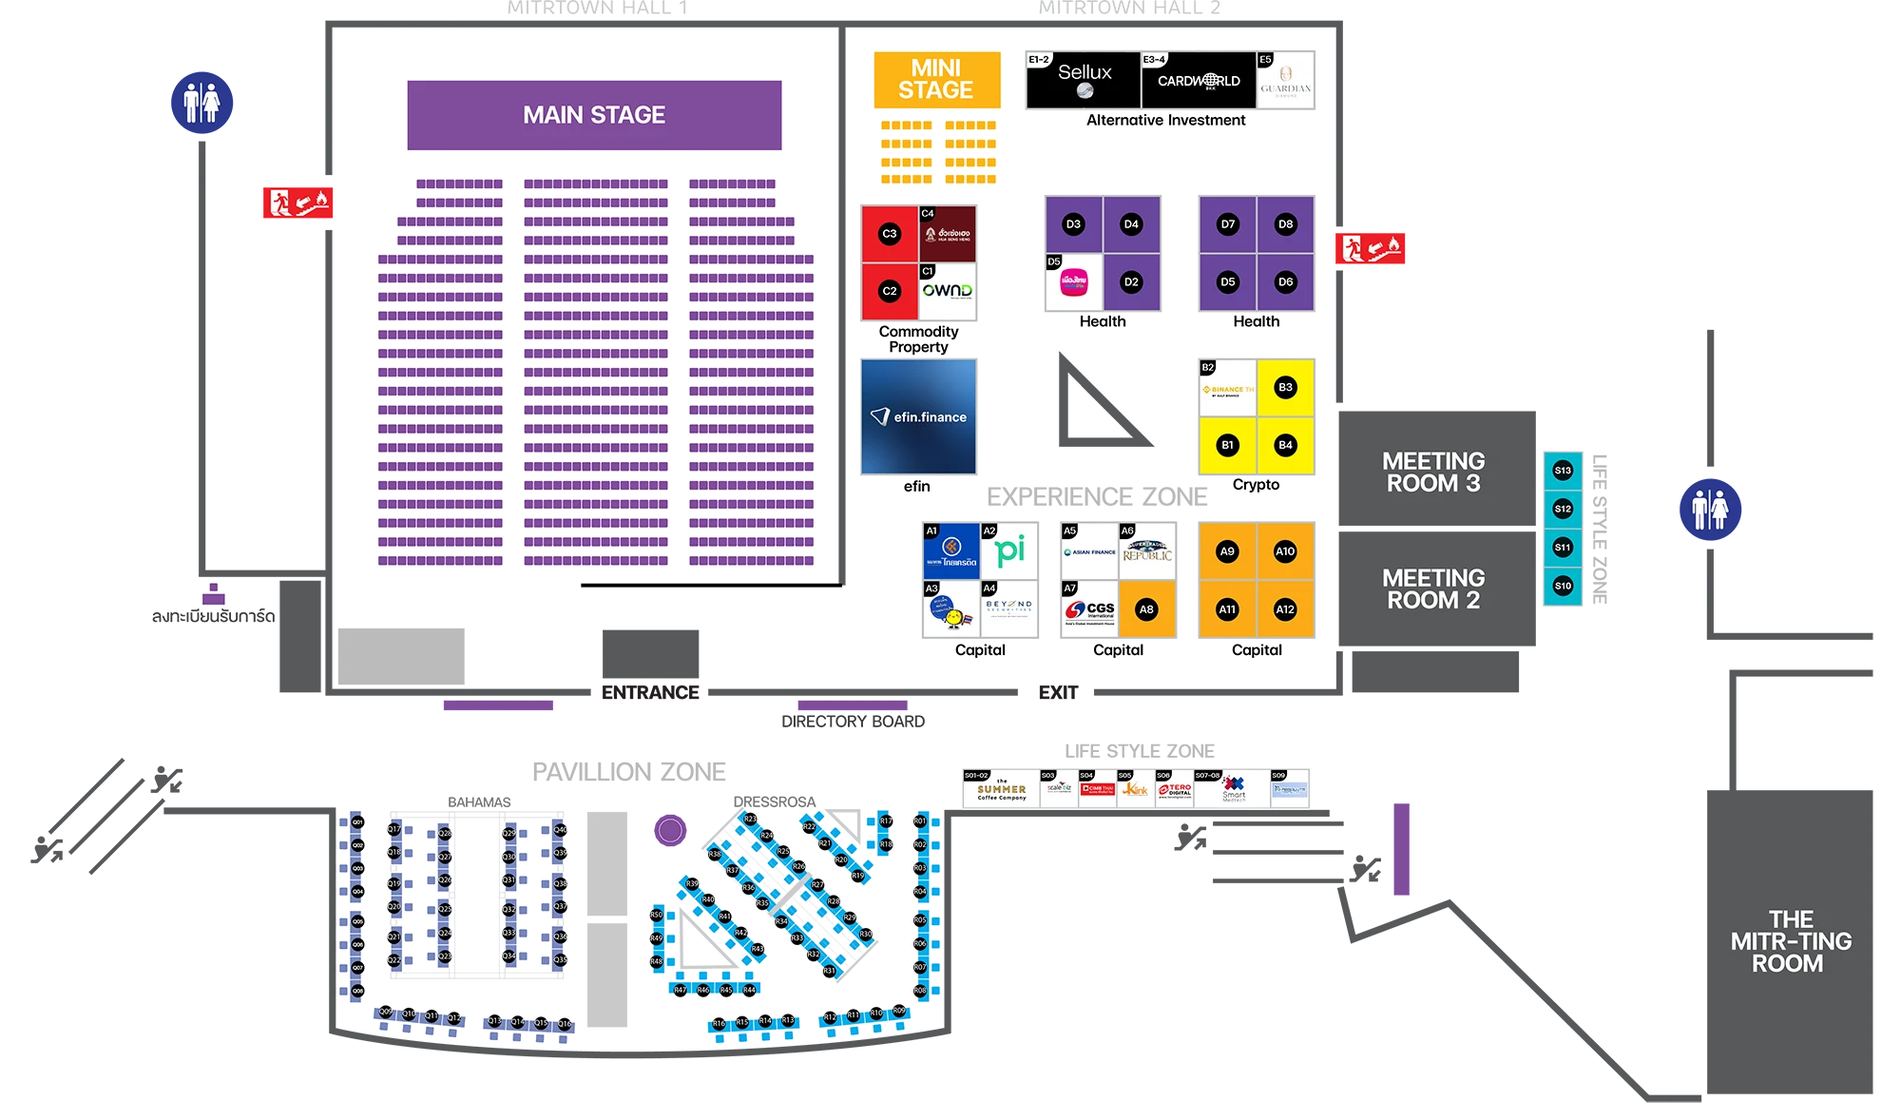
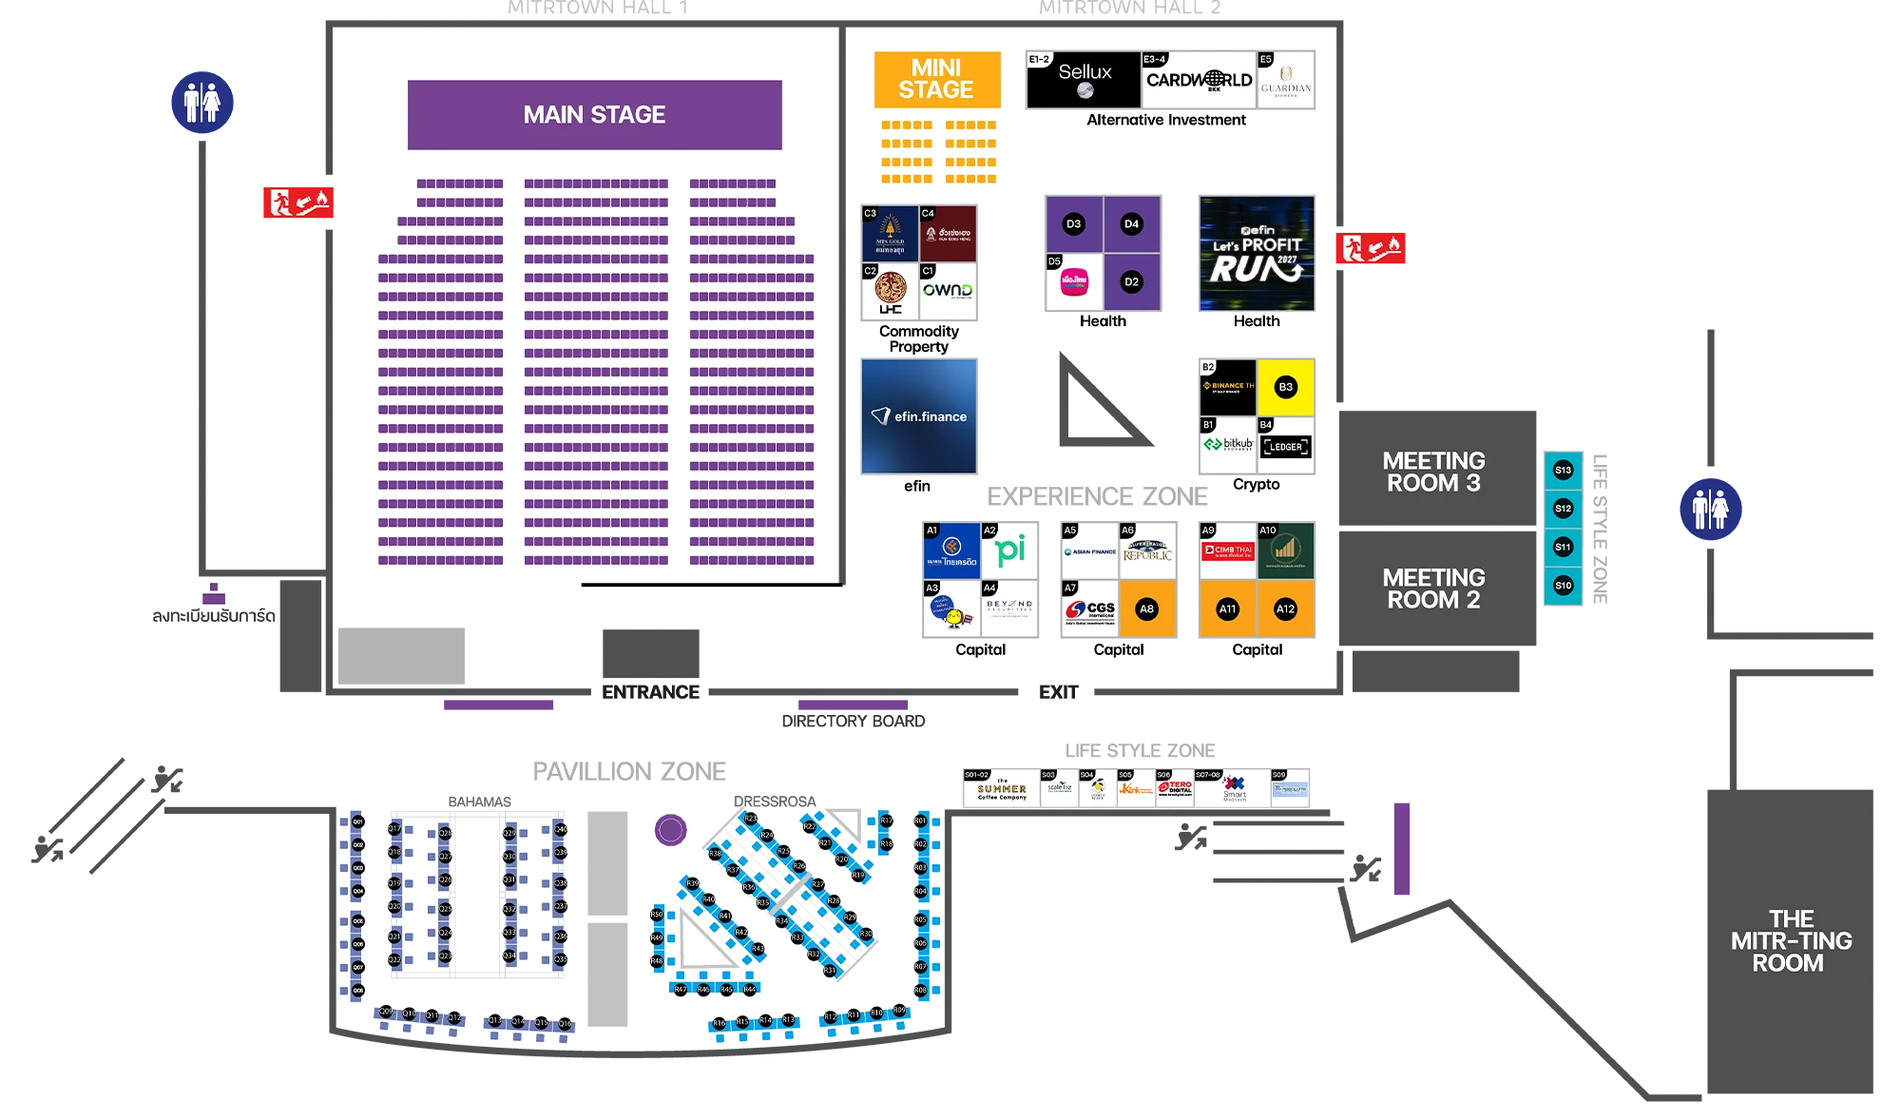
Floor plan booths from sheet, new speakers, updated booth plan
- Booth list synced with the sheet (A3, A9 CIMB, A10, B1, B4, C2, C3,
  S04 Honey Nuka; S10 now empty); all zones start collapsed; no border
  under the last zone
- New booth plan image (2000x1178), floor-plan-02.webp?v=2
- Agenda: ดร.ยศชนัน วงศ์สวัสดิ์ replaces TBD; speaker directory adds
  ดร.ยศชนัน, คุณวัชรวิชญ์, คุณปรินทร์, คุณเผดิมภพ (role placeholder)
- speaker-directory.js?v=45

diff --git a/index.html b/index.html
@@ -69,7 +69,7 @@
     <link rel="stylesheet" href="fonts/fonts.css">
     <link rel="stylesheet" href="vendor/swiper/swiper-bundle.min.css">
     <link rel="stylesheet" href="css/main.css?v=61">
-    <link rel="stylesheet" href="css/style.css?v=1173">
+    <link rel="stylesheet" href="css/style.css?v=1174">
 </head>
 
 <body class="is-loading">
@@ -562,9 +562,11 @@
                                             <td>
                                                 <p class="agenda__session-title">NEW WORLD, NEW PLAYBOOK</p>
                                                 <p class="agenda__session-summary">โลกใหม่ กติกาใหม่ โอกาสใหม่</p>
-                                                <p class="agenda__session-speaker">To Be Determined</p>
+                                                <p class="agenda__session-speaker">ดร.ยศชนัน วงศ์สวัสดิ์</p>
                                             </td>
-                                            <td class="agenda__speakers"><span class="agenda__speaker-frame" aria-label="พื้นที่รูปโปรไฟล์วิทยากร"><span class="agenda__speaker-photo"><img src="images/agenda/profile-empty.webp" width="928" height="1152" loading="lazy" decoding="async" alt=""></span></span></td>
+                                            <td class="agenda__speakers">
+                                                <span class="agenda__speaker-frame" aria-label="พื้นที่รูปโปรไฟล์วิทยากรคนที่ 1"><span class="agenda__speaker-photo"><img src="images/agenda/day-1/D1-ดร.ยศชนัน-วงศ์สวัสดิ์.webp" width="240" height="240" loading="lazy" decoding="async" alt="ดร.ยศชนัน วงศ์สวัสดิ์"></span></span>
+                                            </td>
                                         </tr>
                                         <tr>
                                             <th scope="row"><time>10:20 – 11:20</time></th>
@@ -1574,7 +1576,7 @@
                         <div class="floor-plan__stage">
                             <figure class="floor-plan__figure">
                                 <div class="floor-plan__visual">
-                                    <img class="floor-plan__image" src="images/floor-plan-02.webp" width="1440" height="870"
+                                    <img class="floor-plan__image" src="images/floor-plan-02.webp?v=2" width="2000" height="1178"
                                         loading="lazy" decoding="async"
                                         alt="แผนผังบูธภายในงาน BetterTrade 2026 พร้อมหมายเลขบูธในแต่ละโซน">
                                     <!-- desktop: magnifier (hover zoom) วงกลมลอยตามเมาส์ (js/floor-plan-board.js) -->
@@ -1590,31 +1592,31 @@
                             <div class="floor-plan__panel-inner">
                                 <div class="floor-plan__panel-header">
                                     <h3 id="floor-plan-panel-title" class="floor-plan__panel-title">บูธในงาน</h3>
-                                    <p class="floor-plan__panel-note">Experience Zone 5 โซน, Life Style Zone และ Pavilion Zone</p>
+                                    <p class="floor-plan__panel-note">Experience Zone, Life Style Zone และ Pavilion Zone</p>
                                 </div>
                                 <div id="floor-plan-zones" class="floor-plan__zones accordion">
                                     <div class="floor-plan__zone accordion-item" style="--floor-plan-zone-color: var(--color-warning-400);">
                                         <h4 id="floor-plan-zone-heading-1" class="floor-plan__zone-heading accordion-header">
-                                            <button class="floor-plan__zone-toggle accordion-button" type="button" data-bs-toggle="collapse" data-bs-target="#floor-plan-zone-1" aria-expanded="true" aria-controls="floor-plan-zone-1">
+                                            <button class="floor-plan__zone-toggle accordion-button collapsed" type="button" data-bs-toggle="collapse" data-bs-target="#floor-plan-zone-1" aria-expanded="false" aria-controls="floor-plan-zone-1">
                                                 <span class="floor-plan__zone-swatch" aria-hidden="true"></span>
                                                 <span class="floor-plan__zone-name">Capital</span>
                                                 <span class="floor-plan__zone-meta">16 บูธ</span>
                                                 <span class="floor-plan__zone-icon" aria-hidden="true"></span>
                                             </button>
                                         </h4>
-                                        <div id="floor-plan-zone-1" class="floor-plan__zone-body accordion-collapse collapse show" aria-labelledby="floor-plan-zone-heading-1" data-bs-parent="#floor-plan-zones">
+                                        <div id="floor-plan-zone-1" class="floor-plan__zone-body accordion-collapse collapse" aria-labelledby="floor-plan-zone-heading-1" data-bs-parent="#floor-plan-zones">
                                             <div class="floor-plan__zone-inner">
                                                 <ul class="floor-plan__booths">
                                                     <li class="floor-plan__booth is-confirmed"><span class="floor-plan__booth-code">A1</span><span class="floor-plan__booth-name">Thai Credit Bank - ธนาคารไทยเครดิต จำกัด (มหาชน)</span></li>
                                                     <li class="floor-plan__booth is-confirmed"><span class="floor-plan__booth-code">A2</span><span class="floor-plan__booth-name">PI - บริษัทหลักทรัพย์ พาย จำกัด (มหาชน)</span></li>
-                                                    <li class="floor-plan__booth is-confirmed"><span class="floor-plan__booth-code">A3</span><span class="floor-plan__booth-name">เพจ NamFinance</span></li>
+                                                    <li class="floor-plan__booth is-confirmed"><span class="floor-plan__booth-code">A3</span><span class="floor-plan__booth-name">Little Money เพจ NamFinance</span></li>
                                                     <li class="floor-plan__booth is-confirmed"><span class="floor-plan__booth-code">A4</span><span class="floor-plan__booth-name">BYDH - บริษัทหลักทรัพย์ บีวายดีเอช จำกัด (มหาชน)</span></li>
                                                     <li class="floor-plan__booth is-confirmed"><span class="floor-plan__booth-code">A5</span><span class="floor-plan__booth-name">Asian Finance - บริษัทเงินทุน เอเซียน จำกัด (มหาชน)</span></li>
                                                     <li class="floor-plan__booth is-confirmed"><span class="floor-plan__booth-code">A6</span><span class="floor-plan__booth-name">Super Trader Republic - บริษัท ซุปเปอร์เทรดเดอร์ รีพับบลิค จำกัด</span></li>
                                                     <li class="floor-plan__booth is-confirmed"><span class="floor-plan__booth-code">A7</span><span class="floor-plan__booth-name">CGSI - บริษัทหลักทรัพย์ ซีจีเอส อินเตอร์เนชั่นแนล (ประเทศไทย) จำกัด</span></li>
                                                     <li class="floor-plan__booth"><span class="floor-plan__booth-code">A8</span></li>
-                                                    <li class="floor-plan__booth"><span class="floor-plan__booth-code">A9</span></li>
-                                                    <li class="floor-plan__booth"><span class="floor-plan__booth-code">A10</span></li>
+                                                    <li class="floor-plan__booth is-confirmed"><span class="floor-plan__booth-code">A9</span><span class="floor-plan__booth-name">CIMB - ธนาคาร ซีไอเอ็มบี ไทย จำกัด (มหาชน)</span></li>
+                                                    <li class="floor-plan__booth is-confirmed"><span class="floor-plan__booth-code">A10</span><span class="floor-plan__booth-name">สมาคมนักลงทุนประเทศไทย</span></li>
                                                     <li class="floor-plan__booth"><span class="floor-plan__booth-code">A11</span></li>
                                                     <li class="floor-plan__booth"><span class="floor-plan__booth-code">A12</span></li>
                                                     <li class="floor-plan__booth is-confirmed"><span class="floor-plan__booth-code">A13</span><span class="floor-plan__booth-name">efin.finance</span></li>
@@ -1637,10 +1639,10 @@
                                         <div id="floor-plan-zone-2" class="floor-plan__zone-body accordion-collapse collapse" aria-labelledby="floor-plan-zone-heading-2" data-bs-parent="#floor-plan-zones">
                                             <div class="floor-plan__zone-inner">
                                                 <ul class="floor-plan__booths">
-                                                    <li class="floor-plan__booth"><span class="floor-plan__booth-code">B1</span></li>
+                                                    <li class="floor-plan__booth is-confirmed"><span class="floor-plan__booth-code">B1</span><span class="floor-plan__booth-name">Bitkub บริษัท บิทคับ ออนไลน์ จำกัด</span></li>
                                                     <li class="floor-plan__booth is-confirmed"><span class="floor-plan__booth-code">B2</span><span class="floor-plan__booth-name">Binance TH - บริษัท กัลฟ์ ไบแนนซ์ จำกัด</span></li>
                                                     <li class="floor-plan__booth"><span class="floor-plan__booth-code">B3</span></li>
-                                                    <li class="floor-plan__booth"><span class="floor-plan__booth-code">B4</span></li>
+                                                    <li class="floor-plan__booth is-confirmed"><span class="floor-plan__booth-code">B4</span><span class="floor-plan__booth-name">Ledger บริษัท อาร์ ที บี เทคโนโลยี จำกัด</span></li>
                                                 </ul>
                                             </div>
                                         </div>
@@ -1682,8 +1684,8 @@
                                             <div class="floor-plan__zone-inner">
                                                 <ul class="floor-plan__booths">
                                                     <li class="floor-plan__booth is-confirmed"><span class="floor-plan__booth-code">C1</span><span class="floor-plan__booth-name">OWND - บริษัท โอนดี จำกัด</span></li>
-                                                    <li class="floor-plan__booth"><span class="floor-plan__booth-code">C2</span></li>
-                                                    <li class="floor-plan__booth"><span class="floor-plan__booth-code">C3</span></li>
+                                                    <li class="floor-plan__booth is-confirmed"><span class="floor-plan__booth-code">C2</span><span class="floor-plan__booth-name">บริษัท เล่งหงษ์ คอมโมดิตีส์ จำกัด</span></li>
+                                                    <li class="floor-plan__booth is-confirmed"><span class="floor-plan__booth-code">C3</span><span class="floor-plan__booth-name">(MTS Gold) ห้างทองแม่ทองสุก</span></li>
                                                     <li class="floor-plan__booth is-confirmed"><span class="floor-plan__booth-code">C4</span><span class="floor-plan__booth-name">ฮั่วเซ่งเฮง - บริษัท ห้างขายทองฮั่วเซ่งเฮง จำกัด</span></li>
                                                 </ul>
                                             </div>
@@ -1726,13 +1728,13 @@
                                                     <li class="floor-plan__booth is-confirmed"><span class="floor-plan__booth-code">S01</span><span class="floor-plan__booth-name">The Summer Coffee Company</span></li>
                                                     <li class="floor-plan__booth"><span class="floor-plan__booth-code">S02</span></li>
                                                     <li class="floor-plan__booth is-confirmed"><span class="floor-plan__booth-code">S03</span><span class="floor-plan__booth-name">Scale biz - Arete Platform Co., Ltd.</span></li>
-                                                    <li class="floor-plan__booth is-confirmed"><span class="floor-plan__booth-code">S04</span><span class="floor-plan__booth-name">CIMB - ธนาคาร ซีไอเอ็มบี ไทย จำกัด (มหาชน)</span></li>
+                                                    <li class="floor-plan__booth is-confirmed"><span class="floor-plan__booth-code">S04</span><span class="floor-plan__booth-name">Honey Nuka (ฮันนี่นูก้า)</span></li>
                                                     <li class="floor-plan__booth is-confirmed"><span class="floor-plan__booth-code">S05</span><span class="floor-plan__booth-name">Klink (BYD Batterry) - บริษัท เคลิงค์ แอดวานซ์ เทคโนโลยี จำกัด</span></li>
                                                     <li class="floor-plan__booth is-confirmed"><span class="floor-plan__booth-code">S06</span><span class="floor-plan__booth-name">TERO DIGITAL - บริษัท เทโร ดิจิทัล จำกัด</span></li>
                                                     <li class="floor-plan__booth is-confirmed"><span class="floor-plan__booth-code">S07</span><span class="floor-plan__booth-name">Smart Med Tech - บริษัท สมาร์ท เมดเทค จำกัด</span></li>
                                                     <li class="floor-plan__booth"><span class="floor-plan__booth-code">S08</span></li>
                                                     <li class="floor-plan__booth is-confirmed"><span class="floor-plan__booth-code">S09</span><span class="floor-plan__booth-name">Absolute Health - บริษัท แอ็บโซลูท เฮลธ์ เมดิคอล เซอร์วิสเซส จำกัด</span></li>
-                                                    <li class="floor-plan__booth is-confirmed"><span class="floor-plan__booth-code">S10</span><span class="floor-plan__booth-name">Honey Nuka (ฮันนี่นูก้า)</span></li>
+                                                    <li class="floor-plan__booth"><span class="floor-plan__booth-code">S10</span></li>
                                                     <li class="floor-plan__booth"><span class="floor-plan__booth-code">S11</span></li>
                                                     <li class="floor-plan__booth"><span class="floor-plan__booth-code">S12</span></li>
                                                     <li class="floor-plan__booth"><span class="floor-plan__booth-code">S13</span></li>
@@ -2436,7 +2438,7 @@
     <script src="js/action-button.js"></script>
     <script src="js/ticket-price-selector.js?v=3"></script>
     <script src="js/agenda-tabs.js?v=30"></script>
-    <script src="js/speaker-directory.js?v=44"></script>
+    <script src="js/speaker-directory.js?v=45"></script>
     <script src="js/moderator-directory.js?v=1"></script>
     <script src="js/expectation-counter.js?v=2"></script>
     <script src="js/floor-plan-reveal.js?v=3"></script>

diff --git a/js/speaker-directory.js b/js/speaker-directory.js
@@ -2,6 +2,11 @@
     const speakerDays = {
         dayOne: [
             {
+                name: 'ดร.ยศชนัน วงศ์สวัสดิ์',
+                role: 'รองนายกรัฐมนตรี และรัฐมนตรีว่าการกระทรวงการอุดมศึกษา วิทยาศาสตร์ วิจัยและนวัตกรรม (อว.)',
+                image: 'day-1/D1-ดร.ยศชนัน-วงศ์สวัสดิ์.webp',
+            },
+            {
                 name: 'ดร.นิเวศน์ เหมวชิรวรากร',
                 role: 'นักลงทุนหุ้นเน้นคุณค่า (VI)',
                 image: 'day-1/D1-ดร.นิเวศน์-เหมวชิรวรากร.webp',
@@ -81,11 +86,21 @@
                 role: 'Super Trader',
                 image: 'day-1/D1-โค้ชก้อย.webp',
             },
+            {
+                name: 'คุณวัชรวิชญ์  จิรวงศาพันธุ์',
+                role: 'Co-Founder Anubis Cards and Craft',
+                image: 'day-1/D1-ฟิลลี่-วัชรวิชญ์-จิรวงศาพันธุ์.webp',
+            },
+            {
+                name: 'คุณปรินทร์ ตั้งกิจเวทย์',
+                role: 'Co-Founder Anubis Cards and Craft',
+                image: 'day-1/D1-โอ๊ต-ปรินทร์-ตั้งกิจเวทย์.webp',
+            },
         ],
         dayTwo: [
             {
                 name: 'คุณกวี ชูกิจเกษม',
-                role: 'Chief Portfolio Advisory ประธานเจ้าหน้าที่ สายการบริหารพอร์ตการลงทุน',
+                role: 'ประธานเจ้าหน้าที่ สายการบริหารพอร์ตการลงทุน บริษัทหลักทรัพย์ พาย จำกัด (มหาชน)',
                 image: 'day-2/D2-กวี-ชูกิจเกษม.webp',
             },
             {
@@ -107,6 +122,11 @@
                 name: 'คุณจิรายุส ทรัพย์ศรีโสภา',
                 role: 'ผู้ก่อตั้งกลุ่มบริษัท บิทคับ แคปปิตอล กรุ๊ป <br class="d-none d-xxl-block">โฮลดิ้งส์ จำกัด',
                 image: 'day-2/D2-ท๊อป-จิรายุส.webp',
+            },
+            {
+                name: 'คุณเผดิมภพ สงเคราะห์',
+                role: 'Lorem ipsum dolor sit amet.',
+                image: 'profile-empty.webp',
             },
             {
                 name: 'ผศ.ดร.อุดมศักดิ์ รักวงษ์วาน',

diff --git a/personalized-playbook.html b/personalized-playbook.html
@@ -40,7 +40,7 @@
     <link rel="stylesheet" href="vendor/bootstrap/css/bootstrap.min.css">
     <link rel="stylesheet" href="fonts/fonts.css">
     <link rel="stylesheet" href="css/main.css?v=61">
-    <link rel="stylesheet" href="css/style.css?v=1173">
+    <link rel="stylesheet" href="css/style.css?v=1174">
 </head>
 
 <body class="playbook-page">

diff --git a/css/style.css b/css/style.css
@@ -9087,6 +9087,10 @@ body.menu-open .site-header__backdrop {
     .floor-plan__zone {
         background: transparent;
         border-bottom: var(--rule-width-subtle) solid var(--color-border-faint);
+
+        &:last-child {
+            border-bottom: 0;
+        }
     }
 
     .floor-plan__zone-heading {
